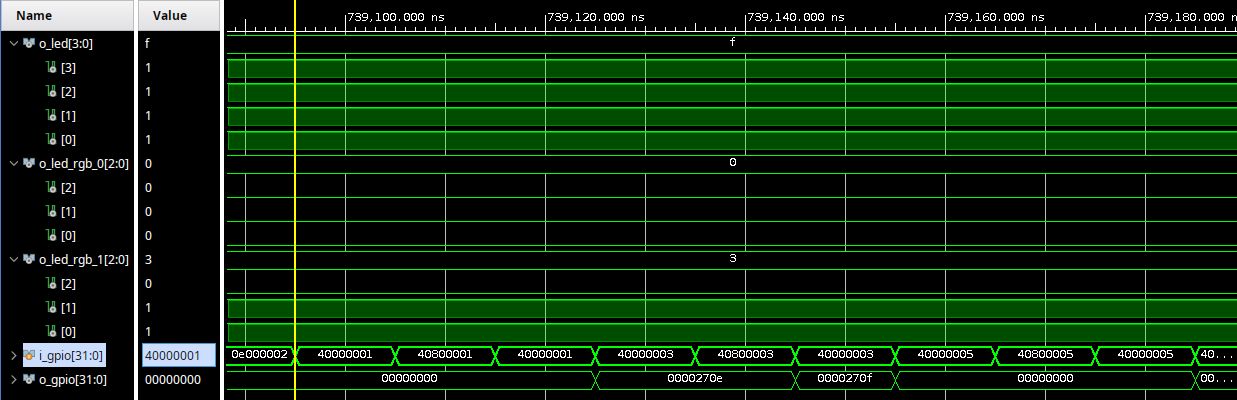
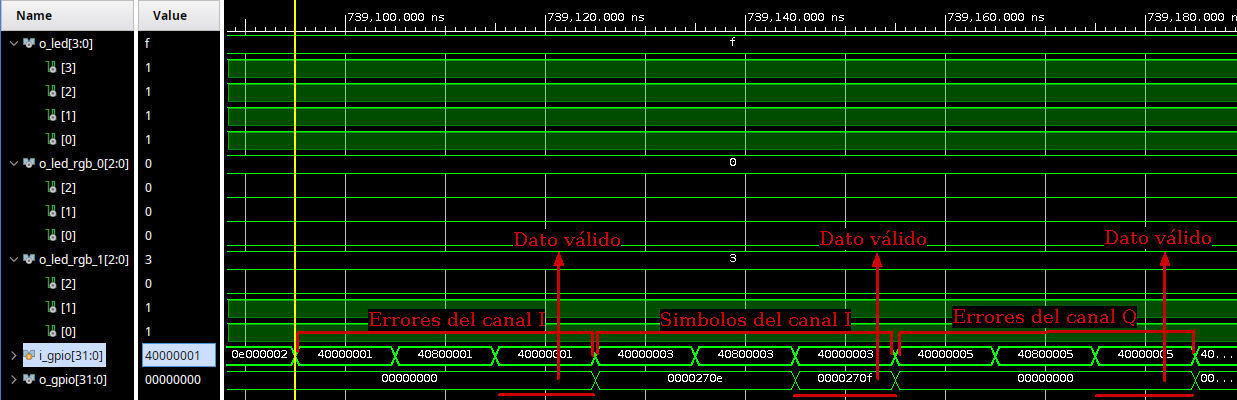
agregado opcion de leer memoria por uart

diff --git a/TP6/main.c b/TP6/main.c
@@ -16,6 +16,9 @@
 #define def_LOG_RUN             2
 #define def_LOG_READ            3
 
+// Memoria del log del DSP
+#define LOG_SIZE 1024
+
 XGpio GpioOutput;
 XGpio GpioParameter;
 XGpio GpioInput;
@@ -25,12 +28,18 @@ XUartLite uart_module;
 
 // Tramas del UART
 u8 frame_in[4] = {0};
-u8 frame_out[4] = {0};
+u8 frame_out_ber[4] = {0};
+u8 frame_out_log[2 * LOG_SIZE] = {0};
+
+// Log del DSP
+u32 log_mem_temp = 0;
+u8 log_mem_i[LOG_SIZE] = {0};
+u8 log_mem_q[LOG_SIZE] = {0};
 
 //Funcion para recibir 1 byte bloqueante
 //XUartLite_RecvByte((&uart_module)->RegBaseAddress)
 
-u32 get_gpio(u32 input)
+u32 write_and_read_gpio(u32 input)
 {
     XGpio_DiscreteWrite(&GpioOutput, 1, input);
     XGpio_DiscreteWrite(&GpioOutput, 1, input | (u32)(1 << 23));
@@ -39,14 +48,21 @@ u32 get_gpio(u32 input)
     return XGpio_DiscreteRead(&GpioOutput, 1);
 }
 
-void send_frame(u32 input)
+u32 write_gpio(u32 input)
 {
-    frame_out[0] = (input >> 24) & 0x000000FF;
-    frame_out[1] = (input >> 16) & 0x000000FF;
-    frame_out[2] = (input >>  8) & 0x000000FF;
-    frame_out[3] = (input >>  0) & 0x000000FF;
+    XGpio_DiscreteWrite(&GpioOutput, 1, input);
+    XGpio_DiscreteWrite(&GpioOutput, 1, input | (u32)(1 << 23));
+    XGpio_DiscreteWrite(&GpioOutput, 1, input);
+}
 
-    XUartLite_Send(&uart_module, &frame_out[0], 4);
+void send_frame_ber(u32 input)
+{
+    frame_out_ber[0] = (input >> 24) & 0x000000FF;
+    frame_out_ber[1] = (input >> 16) & 0x000000FF;
+    frame_out_ber[2] = (input >>  8) & 0x000000FF;
+    frame_out_ber[3] = (input >>  0) & 0x000000FF;
+
+    XUartLite_Send(&uart_module, &frame_out_ber[0], 4);
     while(XUartLite_IsSending(&uart_module)){}
 }
 
@@ -71,9 +87,9 @@ int main()
     XGpio_SetDataDirection(&GpioInput, 1, 0xFFFFFFFF);
     
     // Prender transceptor
-    XGpio_DiscreteWrite(&GpioOutput, 1, 0x0E000000);
-    XGpio_DiscreteWrite(&GpioOutput, 1, 0x0E800000);
-    XGpio_DiscreteWrite(&GpioOutput, 1, 0x0E000000);
+    XGpio_DiscreteWrite(&GpioOutput, 1, 0x0E000002);
+    XGpio_DiscreteWrite(&GpioOutput, 1, 0x0E800002);
+    XGpio_DiscreteWrite(&GpioOutput, 1, 0x0E000002);
 
     u32 error_i_high = 0;
     u32 error_i_low = 0;
@@ -95,6 +111,61 @@ int main()
         }
         recv_count = 0;
 
+        // Comparar cabecera, dispositivo y fin de trama
+        if(frame_in[0] == 0xA1 && frame_in[1] == 0xFE && frame_in[3] == 0x41){
+            
+            if(frame_in[2] == 1){
+
+                // Extraer BER - no se latchean los registros al mismo tiempo -> hay una diferencia de 207
+                //  simbolos entre Q e I
+                error_i_high = write_and_read_gpio(0x40000000);
+                error_i_low  = write_and_read_gpio(0x40000001);
+                symb_i_high  = write_and_read_gpio(0x40000002);
+                symb_i_low   = write_and_read_gpio(0x40000003);
+                error_q_high = write_and_read_gpio(0x40000004);
+                error_q_low  = write_and_read_gpio(0x40000005);
+                symb_q_high  = write_and_read_gpio(0x40000006);
+                symb_q_low   = write_and_read_gpio(0x40000007);
+
+                // Enviar todas las tramas
+                send_frame_ber(error_i_high);
+                send_frame_ber(error_i_low );
+                send_frame_ber(symb_i_high );
+                send_frame_ber(symb_i_low  );
+                send_frame_ber(error_q_high);
+                send_frame_ber(error_q_low );
+                send_frame_ber(symb_q_high );
+                send_frame_ber(symb_q_low  );
+            }
+            else if (frame_in[2] == 2){
+
+                // Comenzar logueo
+                write_gpio(0x10000000);
+                // Esperar si el MSB de la respuesta (bit de memoria llena) esta en 0
+                while (!(write_and_read_gpio(0x20000000) & 0x80000000)) {}
+                // Guardar datos
+                for (u32 i = 0; i < LOG_SIZE; i = i + 1) {
+                    log_mem_temp = write_and_read_gpio(0x20000000 | i);
+                    log_mem_i[i] = log_mem_temp & 0x000000FF;
+                    log_mem_q[i] = (log_mem_temp >> 16) & 0x000000FF;
+                }
+                // Enviar datos
+                for (u32 i = 0; i < LOG_SIZE; i = i + 1) {
+                    frame_out_log[i] = log_mem_i[i];
+                }
+                for (u32 i = 0; i < LOG_SIZE; i = i + 1) {
+                    frame_out_log[i + LOG_SIZE] = log_mem_q[i];
+                }
+                for (u32 i = 0; i < 2*LOG_SIZE / 32; i = i + 1) {
+                    XUartLite_Send(&uart_module, &frame_out_log[i], 32);
+                    while(XUartLite_IsSending(&uart_module)){}
+                    // Tiempo de espera para no sobrecargar el buffer
+                    for (u32 j = 0; j < 20000; j = j + 1) {}
+                }
+            }
+        }
+
+
         // // Loopback
         // for (int i = 0; i < 4; i++) {
         //     frame_out[i] = frame_in[i];
@@ -102,28 +173,6 @@ int main()
         // XUartLite_Send(&uart_module, &frame_out[0], 4);
         // while(XUartLite_IsSending(&uart_module)){}
 
-        // Extraer BER - no se latchean los registros al mismo tiempo -> hay una diferencia de 207
-        //  simbolos entre Q e I
-        error_i_high = get_gpio(0x40000000);
-        error_i_low = get_gpio(0x40000001);
-        symb_i_high = get_gpio(0x40000002);
-        symb_i_low = get_gpio(0x40000003);
-        error_q_high = get_gpio(0x40000004);
-        error_q_low = get_gpio(0x40000005);
-        symb_q_high = get_gpio(0x40000006);
-        symb_q_low = get_gpio(0x40000007);
-
-        // Enviar todas las tramas
-        send_frame(error_i_high);
-        send_frame(error_i_low);
-        send_frame(symb_i_high);
-        send_frame(symb_i_low);
-        send_frame(error_q_high);
-        send_frame(error_q_low);
-        send_frame(symb_q_high);
-        send_frame(symb_q_low);
-
-        
     }
 	
 	cleanup_platform();

diff --git a/TP6/com_serie_tp6.py b/TP6/com_serie_tp6.py
@@ -1,7 +1,7 @@
 import time
 import serial
 import sys
-import struct
+import matplotlib.pyplot as plt
 #############################################
 # Nota:
 # Comentar esta linea si se utiliza el puerto serie
@@ -44,6 +44,9 @@ init = (int.from_bytes(cabecera,byteorder='big') & 0xF0) >> 4
 dispositivo_host = b'\xEF'
 dispositivo_host = int.from_bytes(dispositivo_host,byteorder='big')
 
+# Memoria del DSP
+LOG_SIZE = 200
+
 # Mensaje de inicio
 print ('--- Comunicación con FPGA:',ser.port,'---\r\n')
 
@@ -52,7 +55,10 @@ while 1 :
     char_v = []
 
     # Mensaje a enviar
-    print('Envíe algo.')
+    print('Indique leer datos:')
+    print('\t1: Leer BER')
+    print('\t2: Obtener log de datos')
+
     data_write = input("<< ")
     data_write_str = str(data_write)
 
@@ -64,21 +70,103 @@ while 1 :
     print ("Esperando respuesta...")
         
     # Armar y enviar trama
-    data_write = int(data_write)
-    data_write_byte = data_write.to_bytes(1, 'big')
+    data_write_int = int(data_write)
+    data_write_byte = data_write_int.to_bytes(1, 'big')
 
     # Reiniciar buffer de recepcion
     ser.reset_input_buffer()
     # Enviar dato
     ser.write(cabecera + dispositivo + data_write_byte + fin_de_trama)
     print(cabecera + dispositivo + data_write_byte + fin_de_trama)
-    # Esperar y mostrar respuesta del receptor
-    time.sleep(2)
 
-    print('Esperando:', ser.inWaiting())
+    # Leer BER
+    if data_write_int == 1:
+        # Esperar y mostrar respuesta del receptor
+        time.sleep(2)
 
-    while ser.in_waiting > 0:
-        data_read = ser.read(4)
-        # Convertir a entero e imprimir dato recibido
-        data_read_int = int.from_bytes(data_read,byteorder='big')
-        print (">>",data_read, data_read_int)
+        print('Bytes entrantes:', ser.inWaiting())
+
+        # ber_values: valores de error y simbolos totales
+        # ber_values[0]: errores I parte alta
+        # ber_values[1]: errores I parte baja
+        # ber_values[2]: simbolos I parte alta
+        # ber_values[3]: simbolos I parte baja
+        # ber_values[4]: errores Q parte alta
+        # ber_values[5]: errores Q parte baja
+        # ber_values[6]: simbolos Q parte alta
+        # ber_values[7]: simbolos Q parte baja
+        ber_values = []
+
+        while ser.in_waiting > 0:
+            # Leer dato
+            data_read = ser.read(4)
+            # Convertir a entero e imprimir dato recibido
+            data_read_int = int.from_bytes(data_read,byteorder='big')
+            # print (">>", data_read_int)
+            ber_values.append(data_read_int)
+
+        # errores/simbolos = (parte_alta * 2**32 + parte_baja)
+        print (">> BER I:", (ber_values[0] * 2**32 + ber_values[1]) / \
+                            (ber_values[2] * 2**32 + ber_values[3]))
+        print (">> BER Q:", (ber_values[4] * 2**32 + ber_values[5]) / \
+                            (ber_values[6] * 2**32 + ber_values[7]))
+
+    elif data_write_int == 2:
+        # Esperar y mostrar respuesta del receptor
+        # time.sleep(2)
+
+        print('Bytes entrantes:', ser.inWaiting())
+
+        idx_read = 0
+        log_i = []
+        log_q = []
+
+        waiting_total = ser.inWaiting()
+
+        while idx_read < 2 * LOG_SIZE:
+            print('idx:', idx_read, ' - Bytes entrantes:', ser.inWaiting())
+
+            data_read = ser.read(1)
+            # Convertir a entero y guardar en arreglo
+            data_read_int = int.from_bytes(data_read,byteorder='big',signed=True)
+            # print (">>", data_read_int)
+            if idx_read < LOG_SIZE:
+                log_i.append(data_read_int)
+            else:
+                log_q.append(data_read_int)
+
+            # time.sleep(0.5)
+            idx_read = idx_read + 1
+            
+        plt.figure(figsize=[14,7])
+        plt.plot(log_i, 'ro-' , linewidth=1.5, label='Canal I')
+        plt.plot(log_q, 'bo-' , linewidth=1.5, label='Canal Q')
+
+        plt.legend()
+        plt.grid(True)
+        plt.title('Plot')
+        plt.xlabel('Muestras')
+        plt.ylabel('Amplitud')
+        plt.show()
+
+        # print(">> Datos I:")
+        # for i in range(LOG_SIZE):
+        #     print(log_i[i])
+
+        # print(">> Datos Q:")
+        # for i in range(LOG_SIZE):
+        #     print(log_q[i])
+
+    else:
+        print('Comando desconocido.')
+
+    # # Esperar y mostrar respuesta del receptor
+    # time.sleep(2)
+
+    # print('Esperando:', ser.inWaiting())
+
+    # while ser.in_waiting > 0:
+    #     data_read = ser.read(4)
+    #     # Convertir a entero e imprimir dato recibido
+    #     data_read_int = int.from_bytes(data_read,byteorder='big')
+    #     print (">>", data_read_int)

diff --git a/TP6/latex/cuerpo.tex b/TP6/latex/cuerpo.tex
@@ -143,14 +143,14 @@ Para verificar el register file, se realizó un testbench que estimula la entrad
     \item Leer todas las direcciones de la memoria.
 \end{enumerate}
 
-El resultado de esta simulación se ve en la forma de onda de la \autoref{}.
+La lectura de algunos campos de BER se ve en la forma de onda de la \autoref{fig:sim_rf}, donde el módulo entrega el dato de los errores y símbolos totales del canal I y los errores del canal Q. Se puede ver, cuando se solicitan los símbolos del canal I, que el dato llega 1 ciclo despues de levantar la bandera de habilitación, por lo que el dato luego tiene 1 ciclo para estabilizarse y así poder leerlo luego con el microprocesador.
 
-% \begin{figure}[H]
-%     \centering
-%     \includegraphics[width=\linewidth]{img/dato_gpio.png}
-%     \caption{Campos de la salida del GPIO al register file.}
-%     \label{fig:dato_gpio}
-% \end{figure}
+\begin{figure}[H]
+    \centering
+    \includegraphics[width=\linewidth]{img/sim_rf.png}
+    \caption{Forma de onda en la lectura de algunos campos de BER.}
+    \label{fig:sim_rf}
+\end{figure}
 
 \subsection{Microprocesador}
 
